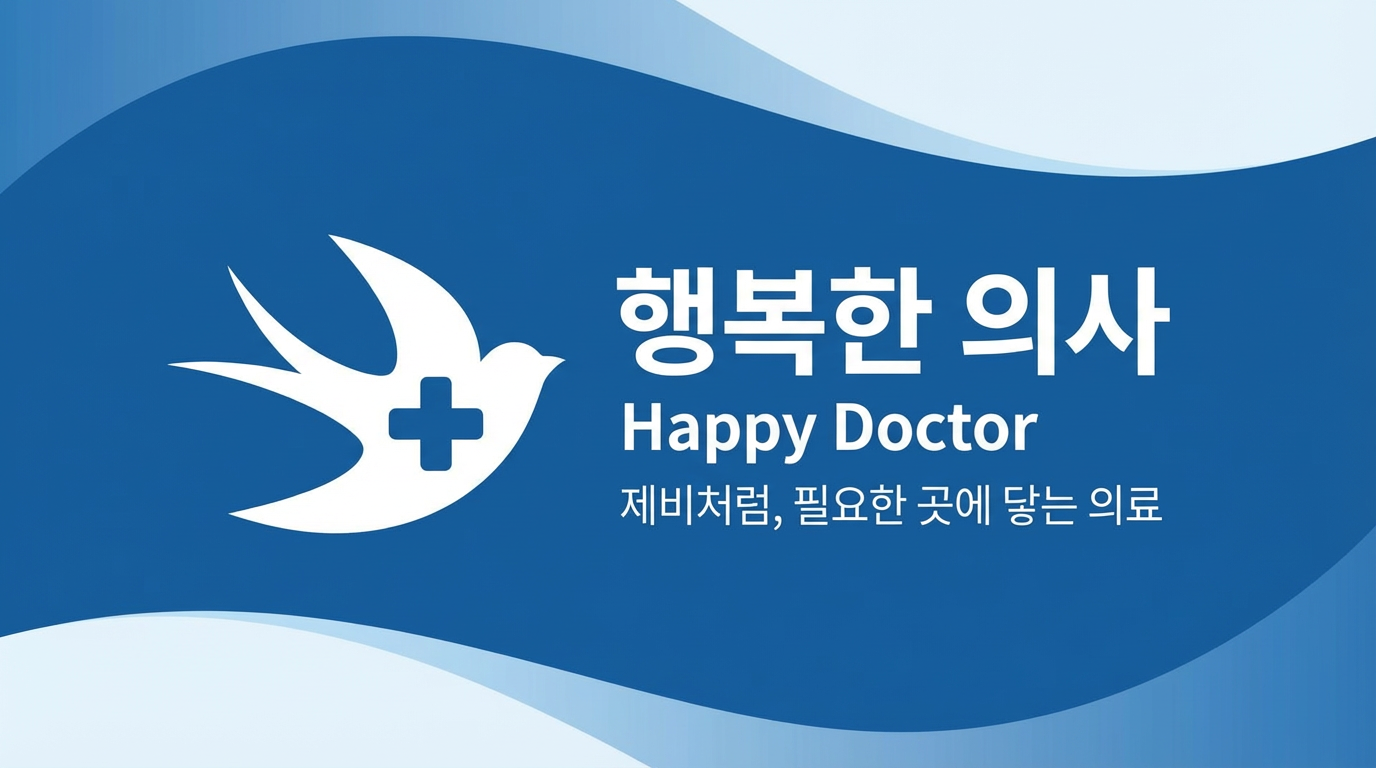
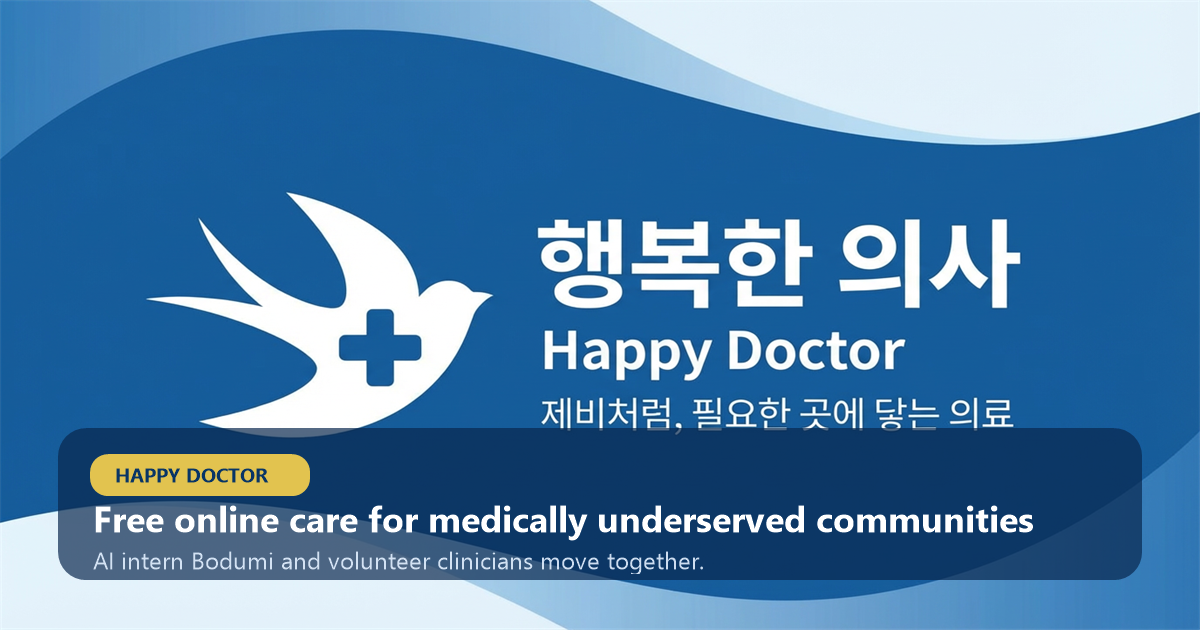
Align homepage and app share previews

Changed region(s): [[0.0308, 0.6635, 0.9558, 0.9349]]

diff --git a/frontend/app/app/layout.tsx b/frontend/app/app/layout.tsx
@@ -19,7 +19,8 @@ const spaceGrotesk = Space_Grotesk({
 export const metadata: Metadata = {
   metadataBase: new URL('https://app.happydoctor.kr'),
   title: '해피닥터 앱 | Happy Doctor',
-  description: '의료 접근성 취약계층을 위한 무료 온라인 의료상담 해피닥터 앱입니다. 카카오톡으로 상담을 시작하고 앱에서 같은 상담 흐름을 다시 확인할 수 있습니다.',
+  description:
+    '의료 접근성 취약계층을 위한 무료 온라인 의료상담 앱입니다. 카카오톡으로 상담을 시작하고, 앱에서 같은 상담 흐름을 다시 확인할 수 있습니다.',
   applicationName: '해피닥터 앱',
   manifest: '/manifest.webmanifest',
   alternates: {
@@ -27,7 +28,8 @@ export const metadata: Metadata = {
   },
   openGraph: {
     title: '해피닥터 앱 | Happy Doctor',
-    description: '의료 접근성 취약계층을 위한 무료 온라인 의료상담 해피닥터 앱. 카카오톡으로 상담을 시작하고 앱에서 같은 상담 흐름을 다시 확인할 수 있습니다.',
+    description:
+      '의료가 멀게 느껴질 때 먼저 닿는 온라인 의료상담. AI 인턴 보듬이와 자원봉사 의료진이 함께하는 해피닥터 앱입니다.',
     type: 'website',
     url: '/',
     images: [
@@ -35,14 +37,15 @@ export const metadata: Metadata = {
         url: '/app-screenshot.png',
         width: 1200,
         height: 630,
-        alt: '해피닥터 앱 미리보기',
+        alt: '해피닥터 앱 공유 미리보기',
       },
     ],
   },
   twitter: {
     card: 'summary_large_image',
     title: '해피닥터 앱 | Happy Doctor',
-    description: '의료 접근성 취약계층을 위한 무료 온라인 의료상담 해피닥터 앱. 카카오톡으로 상담을 시작하고 앱에서 같은 상담 흐름을 다시 확인할 수 있습니다.',
+    description:
+      '의료가 멀게 느껴질 때 먼저 닿는 온라인 의료상담. AI 인턴 보듬이와 자원봉사 의료진이 함께하는 해피닥터 앱입니다.',
     images: ['/app-screenshot.png'],
   },
   appleWebApp: {

diff --git a/frontend/homepage/app/layout.tsx b/frontend/homepage/app/layout.tsx
@@ -12,8 +12,10 @@ const notoSansKR = Noto_Sans_KR({
 export const metadata: Metadata = {
   metadataBase: new URL('https://happydoctor.kr'),
   title: '행복한 의사 | Happy Doctor',
-  description: '제비처럼, 필요한 곳에 닿는 의료. 의료 취약계층을 위한 무료 온라인 의료상담 서비스.',
-  keywords: '무료 의료상담, 행복한의사, 해피닥터, 응급의학과, 의료봉사, 카카오 의료상담',
+  description:
+    '제비처럼, 필요한 곳에 닿는 의료. 의료 접근성 취약계층을 위한 무료 온라인 의료상담 서비스입니다.',
+  keywords:
+    '무료 의료상담, 행복한 의사, 해피닥터, 의료 접근성 취약계층, 카카오톡 의료상담',
   alternates: {
     canonical: '/ko',
     languages: {
@@ -23,16 +25,25 @@ export const metadata: Metadata = {
   },
   openGraph: {
     title: '행복한 의사 | Happy Doctor',
-    description: '제비처럼, 필요한 곳에 닿는 의료',
+    description:
+      '의료 접근성 취약계층을 위한 무료 온라인 의료상담. AI 인턴 보듬이와 자원봉사 의료진이 함께 움직입니다.',
     locale: 'ko_KR',
     type: 'website',
     url: '/ko',
-    images: [{ url: '/design/brand-og.png', width: 1200, height: 630, alt: '행복한 의사 Happy Doctor' }],
+    images: [
+      {
+        url: '/design/brand-og.png',
+        width: 1200,
+        height: 630,
+        alt: '행복한 의사 공유 미리보기',
+      },
+    ],
   },
   twitter: {
     card: 'summary_large_image',
     title: '행복한 의사 | Happy Doctor',
-    description: '제비처럼, 필요한 곳에 닿는 의료',
+    description:
+      '의료 접근성 취약계층을 위한 무료 온라인 의료상담. AI 인턴 보듬이와 자원봉사 의료진이 함께 움직입니다.',
     images: ['/design/brand-og.png'],
   },
   icons: {

diff --git a/tasks/todo.md b/tasks/todo.md
@@ -463,9 +463,23 @@
 - [x] Started `createApp()` on an ephemeral local port and fetched `/healthz` and `/api/version` successfully
 - [x] `git diff -- backend/app.js backend/config.js backend/routes/portal.js backend/routes/kakaoWebhook.js` reviewed to confirm only health/version + validation changes landed
 
+## Phase 34: Homepage/App Share Image Alignment (2026.04.04)
+
+### Goal
+- [x] Replace the old generic app preview image so social cards no longer make Happy Doctor look like a simple chat utility or pre-visit questionnaire
+- [x] Align homepage and app share images with the current mission-led identity using the design-source OG artwork as the base
+- [x] Update homepage/app metadata copy so Open Graph and Twitter descriptions match the current service framing
+
+### Verification
+- [x] `frontend/homepage`: `npm run lint`
+- [x] `frontend/homepage`: `npm run build`
+- [x] `frontend/app`: `npm run lint`
+- [x] `frontend/app`: `npm run build`
+- [x] Confirmed refreshed share assets exist at `frontend/homepage/public/design/brand-og.png` and `frontend/app/public/app-screenshot.png`
+
 ## Next Session Priorities
 
 - [ ] Check the live Render deployment for `/healthz` and `/api/version`, then decide whether to surface a tiny revision label in internal tooling
 - [ ] Review Kakao webhook responses for malformed payloads in production logs and decide whether any endpoints should return `200` safe-fallback instead of `400`
-- [ ] Decide whether to regenerate shared design-source PNG assets in `imgs/` to match the new app identity, or keep the app primarily HTML-driven
-- [ ] Review whether OG/share images should be regenerated so social previews match the updated mission-led wording
+- [ ] Decide whether to regenerate the remaining design-source PNG assets in `imgs/` to match the updated mission-led wording, or keep most surfaces HTML-driven
+- [ ] Review whether Kakao-specific share images should be split from general OG images, now that homepage/app previews are aligned
